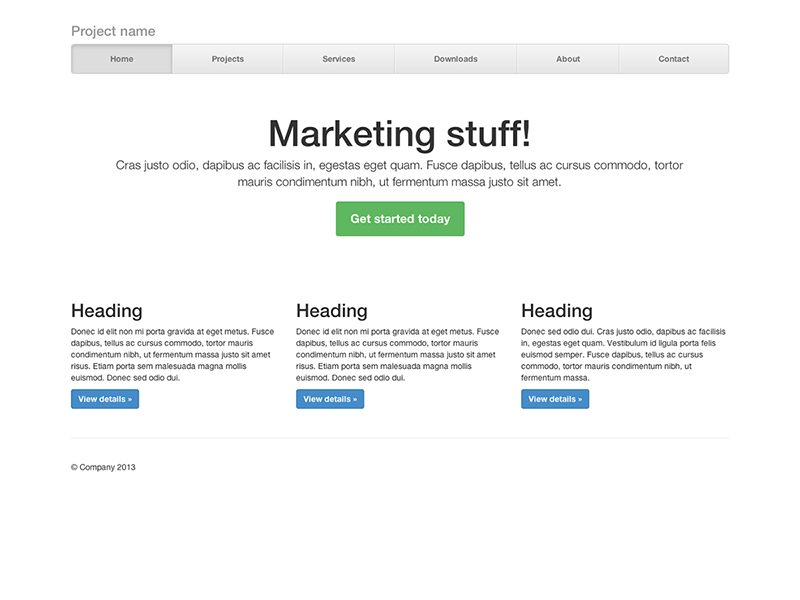
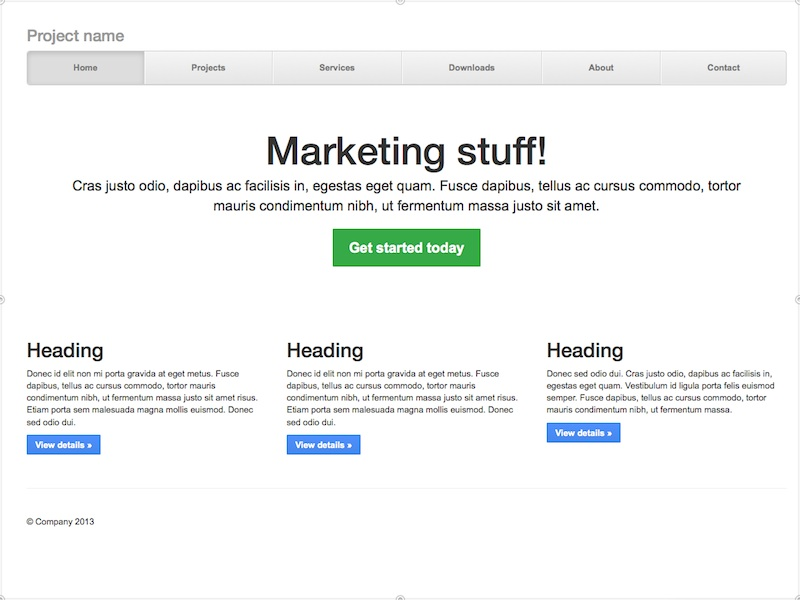
update the justified nav example to support todc-bootstrap
#117

diff --git a/examples/justified-nav/index.html b/examples/justified-nav/index.html
@@ -8,10 +8,13 @@
     <meta name="author" content="">
     <link rel="shortcut icon" href="../../docs-assets/ico/favicon.png">
 
-    <title>Justified Nav Template for Bootstrap</title>
+    <title>Justified Nav Template for TODC Bootstrap</title>
 
     <!-- Bootstrap core CSS -->
     <link href="../../dist/css/bootstrap.css" rel="stylesheet">
+
+    <!-- TODC Bootstrap core CSS -->
+    <link href="../../dist/css/todc-bootstrap.css" rel="stylesheet">
 
     <!-- Custom styles for this template -->
     <link href="justified-nav.css" rel="stylesheet">
